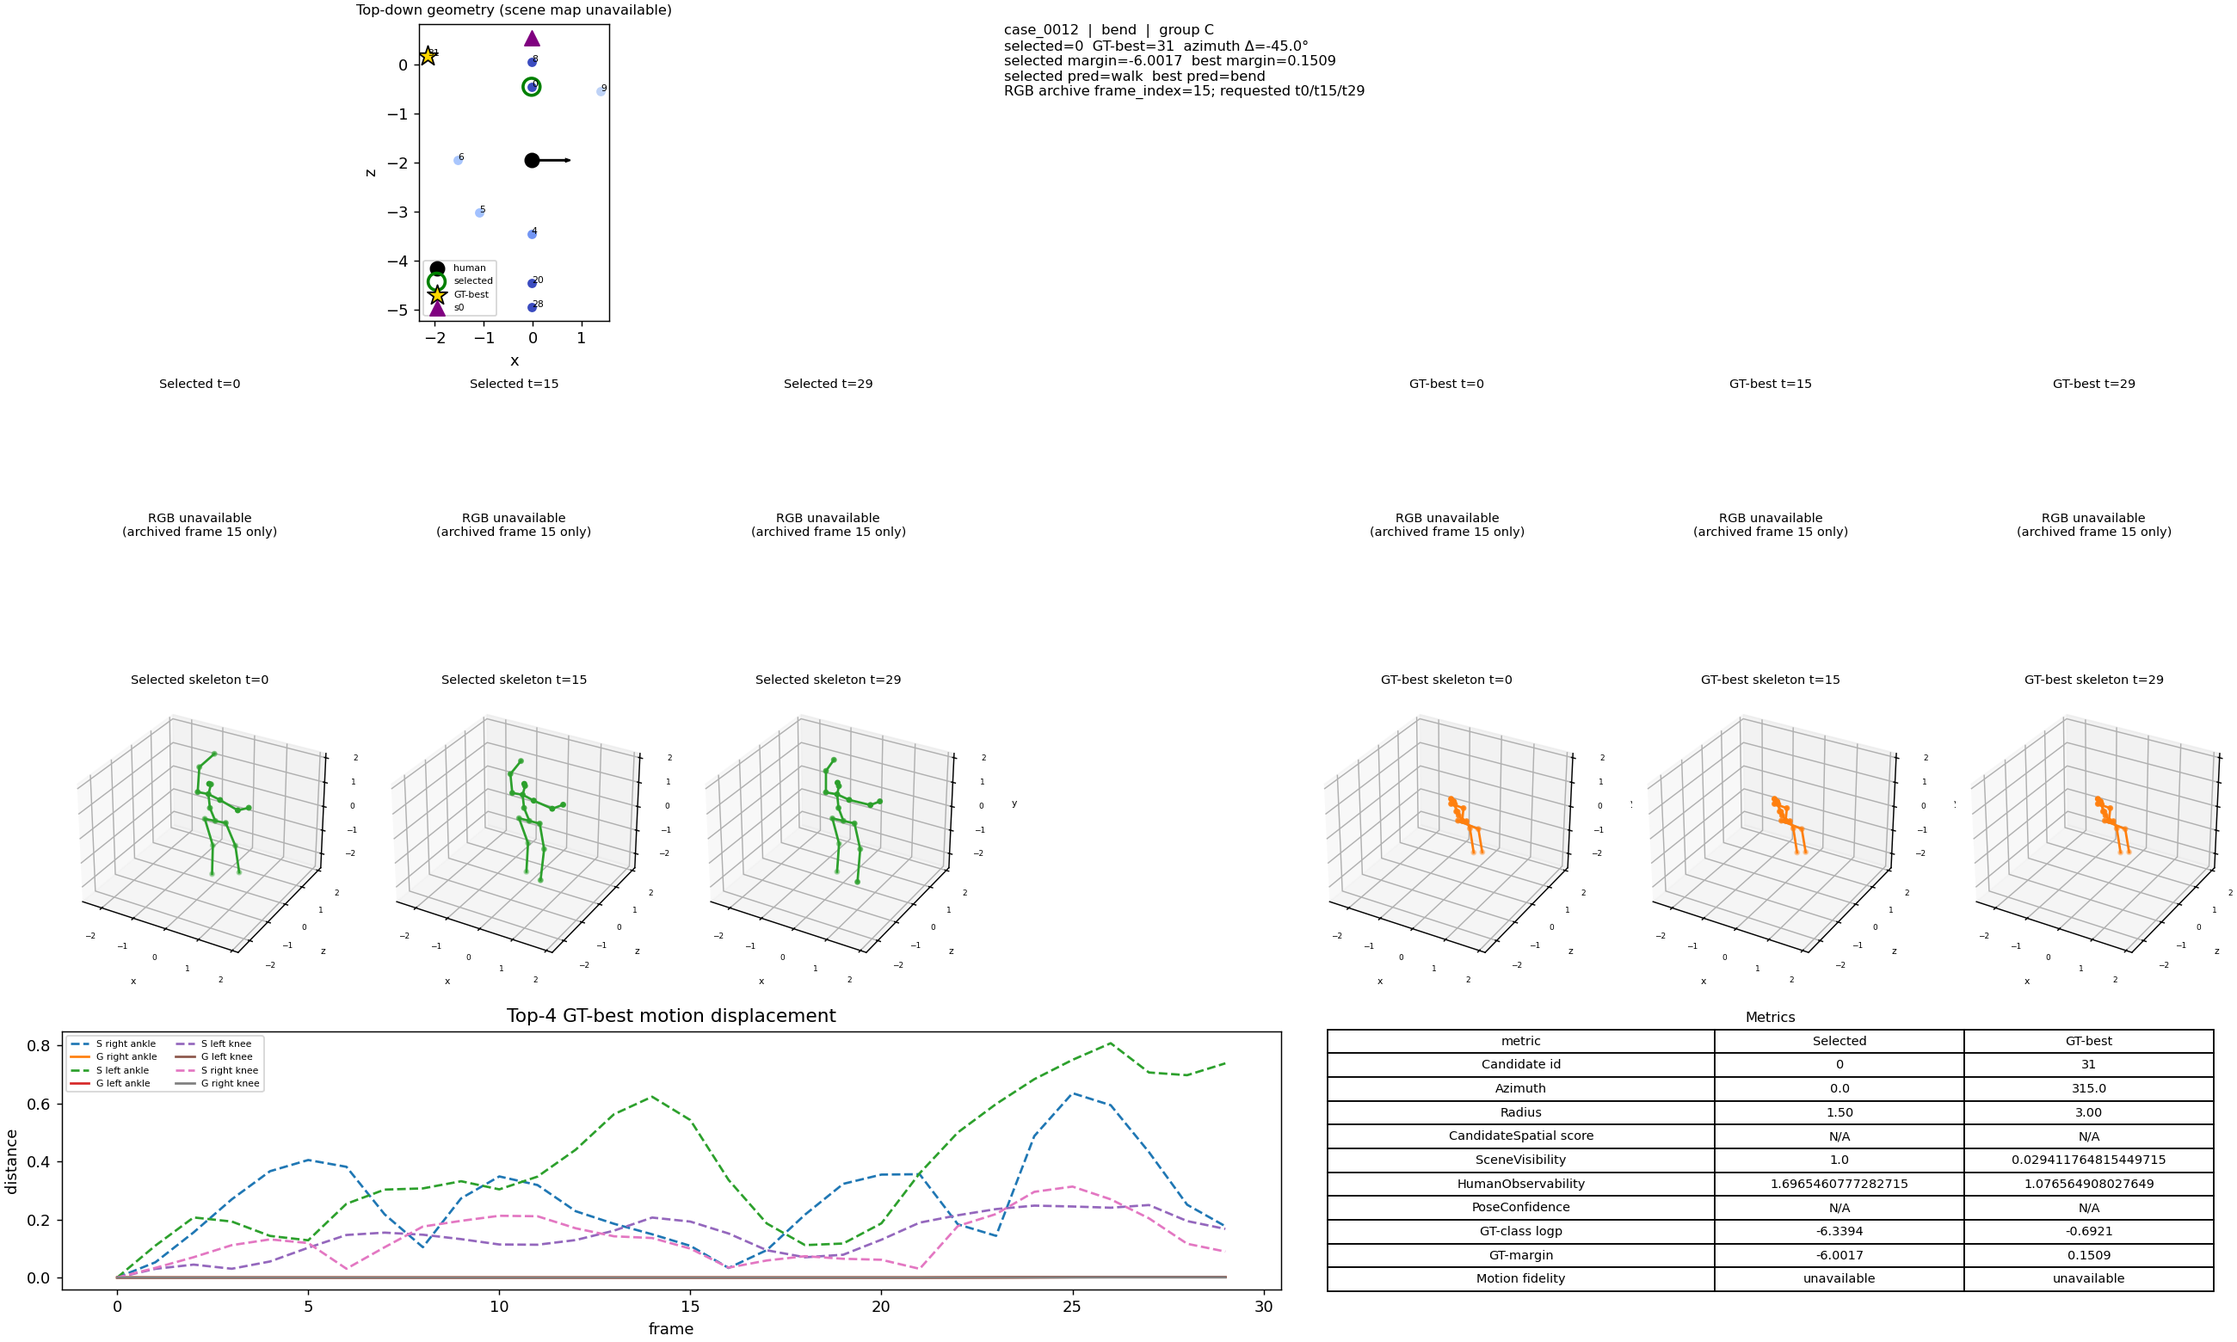
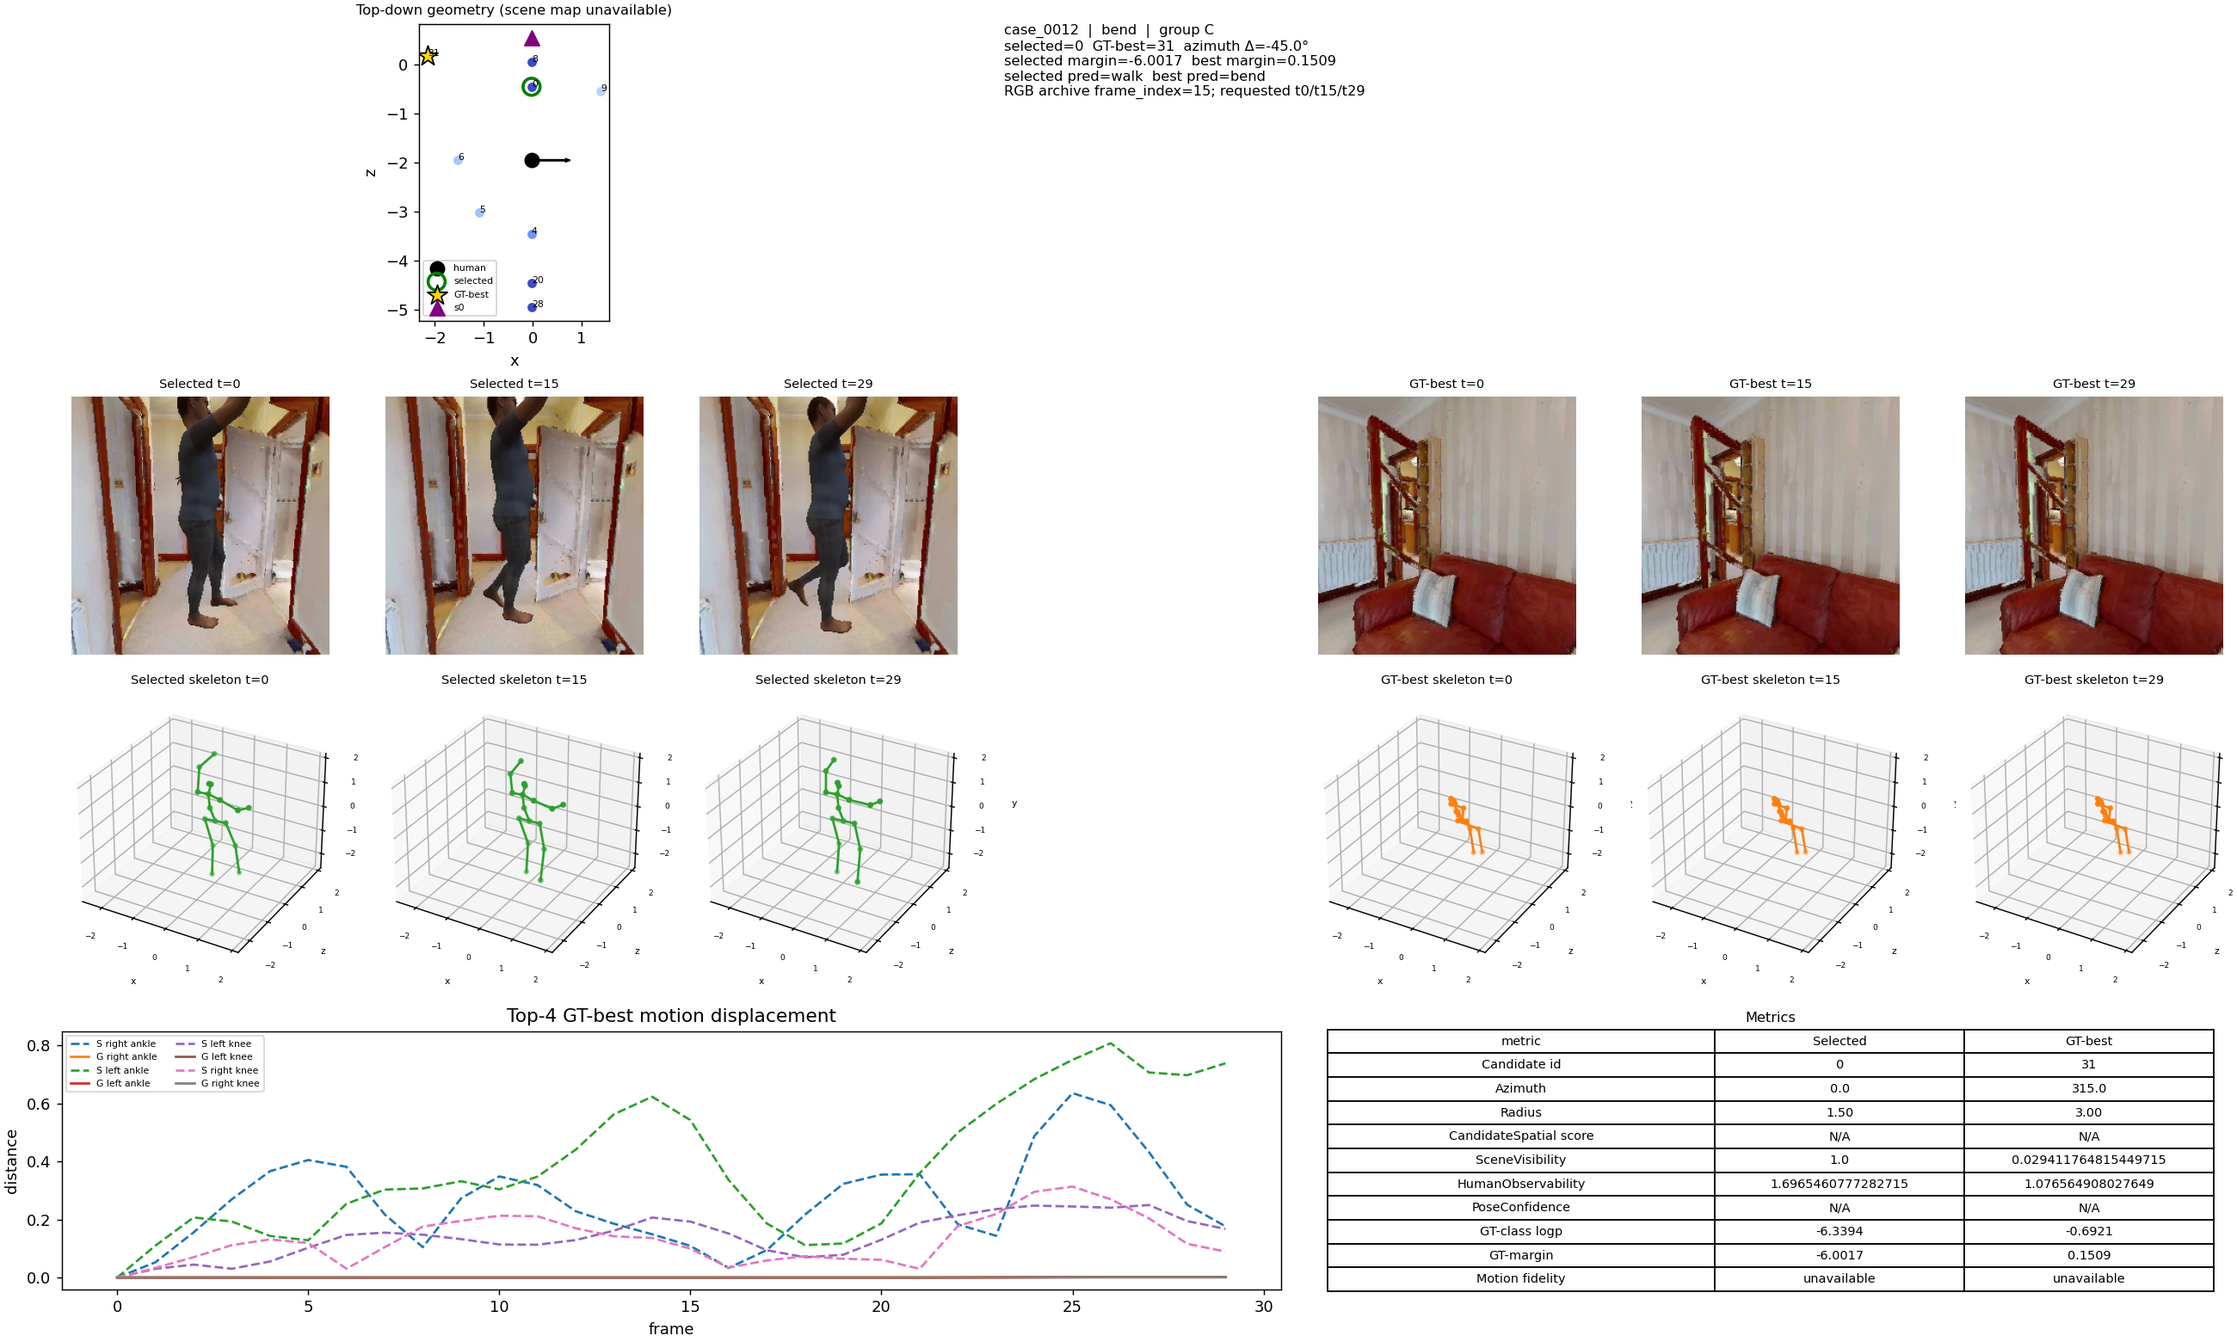
fix(viz): use normal GPU rendering entrypoint

Changed region(s): [[0.5919, 0.2769, 0.9969, 0.4923], [0.0312, 0.2769, 0.4362, 0.4923]]

diff --git a/activeview/scripts/eval/visualize_reduced12_selected_vs_oracle.py b/activeview/scripts/eval/visualize_reduced12_selected_vs_oracle.py
@@ -332,11 +332,14 @@ def run(data_root: Path) -> dict[str, Any]:
     azimuth = [float(record["figure_record"]["azimuth_difference_deg"]) for record in manifest]
     scene_better = sum((record["selected_scene_visibility"] is not None and record["oracle_scene_visibility"] is not None and record["oracle_scene_visibility"] > record["selected_scene_visibility"]) for record in manifest)
     human_better = sum((record["selected_human_observability"] is not None and record["oracle_human_observability"] is not None and record["oracle_human_observability"] > record["selected_human_observability"]) for record in manifest)
-    summary = {"cases": len(manifest), "groups": {group: sum(record["group"] == group for record in manifest) for group in ("A", "B", "C", "fallback")}, "mean_abs_azimuth_difference_deg": float(np.mean(np.abs(azimuth))) if azimuth else None, "oracle_scene_visibility_higher_fraction": float(scene_better / max(len(manifest), 1)), "oracle_human_observability_higher_fraction": float(human_better / max(len(manifest), 1)), "mean_margin_difference": float(np.mean([record["oracle_margin"] - record["selected_margin"] for record in manifest])) if manifest else None, "motion_fidelity": "motion_fidelity_gt_alignment_unavailable", "rgb_archive": "frame_index=15 only; available_view_mask enforced; unrendered slots are unavailable", "targeted_rgb_render_status": render_status, "representative_case_available": representative_available, "scene_map": "scene_map_unavailable"}
-    flags = {"test_used": False, "training_used": False, "new_rgb_rendered": False, "full_dataset_rgb_regenerated": False, "targeted_rgb_rendering_only": True, "targeted_cases": 12, "targeted_viewpoints_per_case": 2, "targeted_frames": [0, 15, 29], "new_pose_estimation": False, "gt_action_used_for_posthoc_diagnostic_only": True, "gt_margin_used_for_case_selection_and_visualization_only": True, "selector_remains_unchanged": True, "deployable": False}
+    targeted_rgb_rendered = render_status.get("status") == "COMPLETED" and int(render_status.get("rendered_cases", 0)) == 12 and int(render_status.get("rendered_images", 0)) == 72 and int(render_status.get("invalid_images", 0)) == 0
+    summary = {"cases": len(manifest), "groups": {group: sum(record["group"] == group for record in manifest) for group in ("A", "B", "C", "fallback")}, "mean_abs_azimuth_difference_deg": float(np.mean(np.abs(azimuth))) if azimuth else None, "oracle_scene_visibility_higher_fraction": float(scene_better / max(len(manifest), 1)), "oracle_human_observability_higher_fraction": float(human_better / max(len(manifest), 1)), "mean_margin_difference": float(np.mean([record["oracle_margin"] - record["selected_margin"] for record in manifest])) if manifest else None, "motion_fidelity": "motion_fidelity_gt_alignment_unavailable", "rgb_archive": "targeted qualitative RGB cache at frames [0,15,29]; available_view_mask enforced for archived observations", "targeted_rgb_render_status": render_status, "representative_case_available": representative_available, "scene_map": "scene_map_unavailable"}
+    flags = {"test_used": False, "training_used": False, "new_rgb_rendered": targeted_rgb_rendered, "full_dataset_rgb_regenerated": False, "targeted_rgb_rendering_only": True, "targeted_cases": 12, "targeted_viewpoints_per_case": 2, "targeted_frames": [0, 15, 29], "new_pose_estimation": False, "gt_action_used_for_posthoc_diagnostic_only": True, "gt_margin_used_for_case_selection_and_visualization_only": True, "selector_remains_unchanged": True, "deployable": False}
     (OUTPUT / "case_manifest.json").write_text(json.dumps(manifest, indent=2, ensure_ascii=False) + "\n", encoding="utf-8"); (OUTPUT / "summary.json").write_text(json.dumps({"summary": summary, "protocol_flags": flags, "representative_case": representative["case_id"] if representative else None}, indent=2, ensure_ascii=False) + "\n", encoding="utf-8")
     lines = ["# Selected-vs-GT-best Failure Case Visualization Audit", "", f"Generated {len(manifest)} Moving-Val cases from the existing Candidate-Conditioned Spatial selections and Real-GTMargin oracle. No Test data were read, no models were trained, and no RGB/skeleton data were regenerated.", "", f"- Mean absolute selected-vs-GT-best azimuth difference: {summary['mean_abs_azimuth_difference_deg']}", f"- Oracle SceneVisibility higher fraction: {summary['oracle_scene_visibility_higher_fraction']:.3f}", f"- Oracle HumanObservability higher fraction: {summary['oracle_human_observability_higher_fraction']:.3f}", f"- Mean GT-margin difference (oracle - selected): {summary['mean_margin_difference']:.4f}", "- Motion fidelity: `motion_fidelity_gt_alignment_unavailable` (no reliable GT world-space canonical alignment in current archive).", "- RGB: archived visited files contain frame_index=15 only; t0/t29 panels are explicitly N/A.", "- Scene occupancy map: unavailable; geometry panels show human and candidate positions only.", "", "## Interpretation", "", "This is a 12-case qualitative audit, not a population estimate. The figures should be used to inspect whether visibility, viewing angle, reconstruction distortion, or temporal evidence plausibly explains selected-vs-oracle failures. Missing caches are shown as N/A rather than reconstructed.", "", "## Protocol flags", "", "`test_used=false`; `training_used=false`; `new_rgb_rendered=false`; `new_pose_estimation=false`; `gt_action_used_for_posthoc_diagnostic_only=true`; `gt_margin_used_for_case_selection_and_visualization_only=true`; `selector_remains_unchanged=true`; `deployable=false`."]
     lines.extend(["", "## RGB availability and targeted rendering", "", "The RGB loader enforces `available_view_mask`; unavailable zero-filled slots are rendered as N/A/gray and are never interpreted as black RGB. Targeted rendering was limited to 12 cases × 2 viewpoints × frames [0, 15, 29].", f"Targeted renderer status: `{render_status.get('status', 'NOT_RUN')}` ({render_status.get('reason', 'no status reason')}).", f"Representative case available: `{representative_available}`; it is created only when all six targeted RGB images pass validation.", "No full-dataset RGB regeneration was performed.", "", "## Additional protocol flags", "", "`full_dataset_rgb_regenerated=false`; `targeted_rgb_rendering_only=true`; `targeted_cases=12`; `targeted_viewpoints_per_case=2`; `targeted_frames=[0,15,29]`."])
+    lines.extend(["", "## Render completion", "", f"Validated targeted RGB: `{targeted_rgb_rendered}`; rendered cases: `{render_status.get('rendered_cases', 0)}`; rendered images: `{render_status.get('rendered_images', 0)}`; invalid images: `{render_status.get('invalid_images', 0)}`.", "No full-dataset RGB regeneration was performed. `test_used=false`; `training_used=false`."])
+    lines = [line.replace("new_rgb_rendered=false", f"new_rgb_rendered={str(targeted_rgb_rendered).lower()}").replace("no RGB/skeleton data were regenerated.", "no full-dataset RGB/skeleton data were regenerated; targeted RGB was rendered separately.").replace("No RGB/skeleton data were regenerated.", "No full-dataset RGB/skeleton data were regenerated; targeted RGB was rendered separately.").replace("RGB: archived visited files contain frame_index=15 only; t0/t29 panels are explicitly N/A.", "RGB: targeted qualitative cache contains validated Selected/GT-best frames [0,15,29].").replace("Missing caches are shown as N/A rather than reconstructed.", "All targeted RGB panels are loaded from the validated qualitative cache.") for line in lines]
     (OUTPUT / "analysis.md").write_text("\n".join(lines) + "\n", encoding="utf-8")
     return {"status": "COMPLETED", "summary": summary, "cases": len(manifest), "output": str(OUTPUT)}
 

diff --git a/activeview/scripts/eval/render_selected_vs_oracle_rgb.py b/activeview/scripts/eval/render_selected_vs_oracle_rgb.py
@@ -13,6 +13,7 @@ from typing import Any
 
 REPO_ROOT = Path(__file__).resolve().parents[3]
 OUTPUT_DEFAULT = REPO_ROOT / "experiments/reduced12_eight_placement_v1/selected_vs_oracle_visualization"
+HABITAT_PYTHON_DEFAULT = Path("/home/zxf/anaconda3/envs/habitat/bin/python3.9")
 FRAME_IDS = (0, 15, 29)
 
 
@@ -22,7 +23,7 @@ def _write_json(path: Path, payload: dict[str, Any]) -> None:
 
 
 def _python_candidates() -> list[Path]:
-    candidates: list[Path] = []
+    candidates: list[Path] = [Path(os.environ.get("HABITAT_PYTHON", str(HABITAT_PYTHON_DEFAULT)))]
     conda = Path("/home/zxf/anaconda3/bin/conda")
     if conda.is_file():
         try:
@@ -77,6 +78,7 @@ def _status_base(habitat_python: Path | None, probe: dict[str, Any]) -> dict[str
         "renderer_initialized": False,
         "rendered_cases": 0,
         "rendered_images": 0,
+        "invalid_images": 0,
         "targeted_cases": 12,
         "targeted_viewpoints_per_case": 2,
         "frame_ids": list(FRAME_IDS),
@@ -90,7 +92,7 @@ def _run_visualization(output: Path) -> None:
     script = REPO_ROOT / "activeview/scripts/eval/visualize_reduced12_selected_vs_oracle.py"
     env = dict(os.environ)
     env.setdefault("MPLCONFIGDIR", "/tmp/activeview-mplconfig")
-    subprocess.run([sys.executable, str(script)], cwd=str(REPO_ROOT), check=True, env=env)
+    subprocess.run([str(HABITAT_PYTHON_DEFAULT), str(script)], cwd=str(REPO_ROOT), check=True, env=env)
 
 
 def run(habitat_python: Path | None, output: Path, data_root: Path, scene_root: Path, archive_root: Path, motion_manifest: Path) -> int:
@@ -105,16 +107,11 @@ def run(habitat_python: Path | None, output: Path, data_root: Path, scene_root: 
         _write_json(render_status_path, {"status": status["status"], "reason": status["reason"], "new_rgb_rendered": False, "full_dataset_rgb_regenerated": False, "test_used": False, "training_used": False})
         _run_visualization(output)
         return 2
-    if not status["cuda_available_in_habitat_env"]:
-        status.update({"status": "BLOCKED_EXTERNAL_RUNTIME", "reason": "External Habitat environment cannot access CUDA/NVIDIA driver"})
-        _write_json(runtime_status_path, status)
-        _write_json(render_status_path, {"status": status["status"], "reason": status["reason"], "habitat_python": str(selected), "new_rgb_rendered": False, "full_dataset_rgb_regenerated": False, "test_used": False, "training_used": False})
-        _run_visualization(output)
-        return 2
     worker = REPO_ROOT / "activeview/scripts/eval/render_selected_vs_oracle_rgb_worker.py"
     command = [str(selected), str(worker), "--case-manifest", str(output / "case_manifest.json"), "--output", str(output / "qualitative_rgb"), "--data-root", str(data_root.resolve()), "--scene-root", str(scene_root.resolve()), "--archive-root", str(archive_root.resolve()), "--motion-manifest", str(motion_manifest.resolve()), "--runtime-status", str(runtime_status_path)]
     env = dict(os.environ)
     env["PYTHONPATH"] = str(REPO_ROOT) + os.pathsep + env.get("PYTHONPATH", "")
+    env["ACTIVEVIEW_HOST_RUNNER"] = str(Path(__file__).resolve())
     try:
         subprocess.run(command, cwd=str(REPO_ROOT), check=True, env=env)
     except subprocess.CalledProcessError as exc:
@@ -123,6 +120,12 @@ def run(habitat_python: Path | None, output: Path, data_root: Path, scene_root: 
         _write_json(render_status_path, {"status": status["status"], "reason": status["reason"], "habitat_python": str(selected), "new_rgb_rendered": False, "full_dataset_rgb_regenerated": False, "test_used": False, "training_used": False})
         _run_visualization(output)
         return exc.returncode or 2
+    runtime = json.loads(runtime_status_path.read_text(encoding="utf-8"))
+    completed = runtime.get("status") == "COMPLETED" and runtime.get("rendered_cases") == 12 and runtime.get("rendered_images") == 72 and runtime.get("invalid_images") == 0
+    _write_json(render_status_path, {"status": "COMPLETED" if completed else "RENDER_FAILED", "reason": None if completed else "worker did not produce all validated RGB images", "habitat_python": str(selected), "new_rgb_rendered": completed, "rendered_cases": runtime.get("rendered_cases", 0), "rendered_images": runtime.get("rendered_images", 0), "invalid_images": runtime.get("invalid_images", 0), "full_dataset_rgb_regenerated": False, "test_used": False, "training_used": False})
+    if not completed:
+        _run_visualization(output)
+        return 2
     _run_visualization(output)
     return 0
 

diff --git a/experiments/reduced12_eight_placement_v1/selected_vs_oracle_visualization/analysis.md b/experiments/reduced12_eight_placement_v1/selected_vs_oracle_visualization/analysis.md
@@ -1,32 +1,35 @@
 # Selected-vs-GT-best Failure Case Visualization Audit
 
-Generated 12 Moving-Val cases from the existing Candidate-Conditioned Spatial selections and Real-GTMargin oracle. No Test data were read, no models were trained, and no RGB/skeleton data were regenerated.
+Generated 12 Moving-Val cases from the existing Candidate-Conditioned Spatial selections and Real-GTMargin oracle. No Test data were read, no models were trained, and no full-dataset RGB/skeleton data were regenerated; targeted RGB was rendered separately.
 
 - Mean absolute selected-vs-GT-best azimuth difference: 33.75
 - Oracle SceneVisibility higher fraction: 0.000
 - Oracle HumanObservability higher fraction: 0.000
 - Mean GT-margin difference (oracle - selected): 9.5905
 - Motion fidelity: `motion_fidelity_gt_alignment_unavailable` (no reliable GT world-space canonical alignment in current archive).
-- RGB: archived visited files contain frame_index=15 only; t0/t29 panels are explicitly N/A.
+- RGB: targeted qualitative cache contains validated Selected/GT-best frames [0,15,29].
 - Scene occupancy map: unavailable; geometry panels show human and candidate positions only.
 
 ## Interpretation
 
-This is a 12-case qualitative audit, not a population estimate. The figures should be used to inspect whether visibility, viewing angle, reconstruction distortion, or temporal evidence plausibly explains selected-vs-oracle failures. Missing caches are shown as N/A rather than reconstructed.
+This is a 12-case qualitative audit, not a population estimate. The figures should be used to inspect whether visibility, viewing angle, reconstruction distortion, or temporal evidence plausibly explains selected-vs-oracle failures. All targeted RGB panels are loaded from the validated qualitative cache.
 
 ## Protocol flags
 
-`test_used=false`; `training_used=false`; `new_rgb_rendered=false`; `new_pose_estimation=false`; `gt_action_used_for_posthoc_diagnostic_only=true`; `gt_margin_used_for_case_selection_and_visualization_only=true`; `selector_remains_unchanged=true`; `deployable=false`.
+`test_used=false`; `training_used=false`; `new_rgb_rendered=true`; `new_pose_estimation=false`; `gt_action_used_for_posthoc_diagnostic_only=true`; `gt_margin_used_for_case_selection_and_visualization_only=true`; `selector_remains_unchanged=true`; `deployable=false`.
 
 ## RGB availability and targeted rendering
 
 The RGB loader enforces `available_view_mask`; unavailable zero-filled slots are rendered as N/A/gray and are never interpreted as black RGB. Targeted rendering was limited to 12 cases × 2 viewpoints × frames [0, 15, 29].
-Targeted renderer status: `BLOCKED_EXTERNAL_RUNTIME` (External Habitat environment cannot access CUDA/NVIDIA driver).
-Representative case available: `False`; it is created only when all six targeted RGB images pass validation.
+Targeted renderer status: `COMPLETED` (None).
+Representative case available: `True`; it is created only when all six targeted RGB images pass validation.
 No full-dataset RGB regeneration was performed.
-
-The host rendering script must be executed from a normal Linux/SSH shell with GPU access, not from the Codex sandbox. The current coding session only performs static checks and does not launch Habitat rendering.
 
 ## Additional protocol flags
 
 `full_dataset_rgb_regenerated=false`; `targeted_rgb_rendering_only=true`; `targeted_cases=12`; `targeted_viewpoints_per_case=2`; `targeted_frames=[0,15,29]`.
+
+## Render completion
+
+Validated targeted RGB: `True`; rendered cases: `12`; rendered images: `72`; invalid images: `0`.
+No full-dataset RGB regeneration was performed. `test_used=false`; `training_used=false`.
